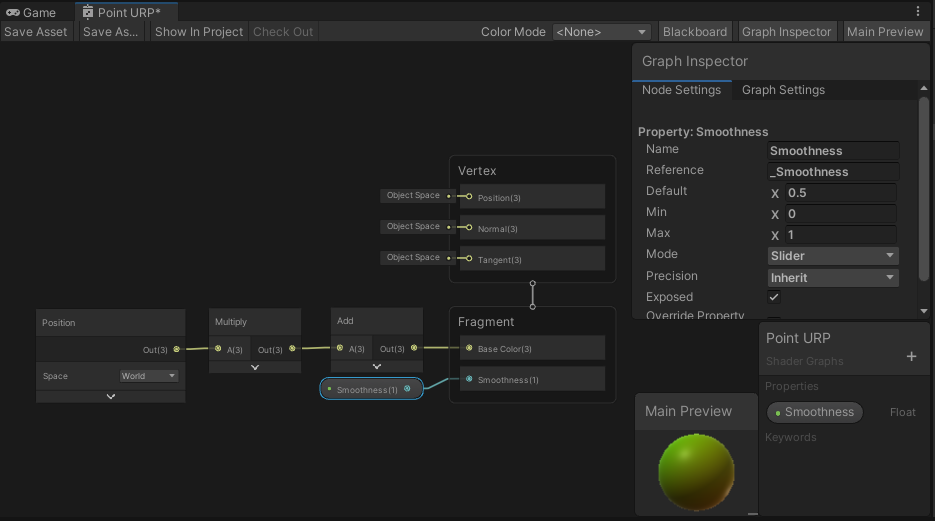
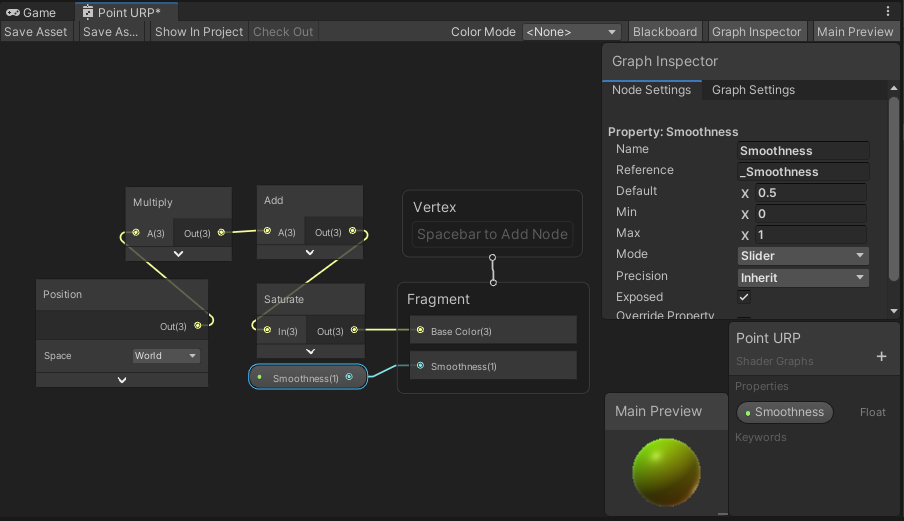
Added ClC Unity Basics graph script and shader

diff --git a/tutorials/catlike/basics/Graph.cs b/tutorials/catlike/basics/Graph.cs
@@ -1,0 +1,63 @@
+// From Catlike Coding Unity Basics 2: Building a Graph
+//      https://catlikecoding.com/unity/tutorials/basics/building-a-graph/
+
+using UnityEngine;
+
+public class Graph : MonoBehaviour
+{
+    [SerializeField]
+    Transform pointPrefab;
+
+    // Range attribute makes the Unity inspector enforce a range to a configurable value.
+    // Unity will make a slider for all ranged fields.
+    [SerializeField, Range(10, 100)]
+    int resolution = 10;
+
+    [SerializeField, Range(0.01f, 0.2f)]
+    float pointScale = 0.04f;
+
+    Transform[] points;
+
+    void Awake()
+    {
+        float domain = 2f;
+        float step = domain / resolution;
+
+        Vector3 position = Vector3.zero;
+        Vector3 scale = Vector3.one * pointScale;
+
+        points = new Transform[resolution];
+
+        // ++i evaluates immediately, whereas i++ evaluates last in the expression.
+        for (int i = 0; i < points.Length; i++)
+        {
+            // Instantiate clones a Unity object
+            // If given a prefab, it will instantiate an instance of it into the current scene
+            Transform point = points[i] = Instantiate(pointPrefab);
+
+            position.x = (i + 0.5f) * step - (domain / 2f); // populate the domain with points, centered at x=0
+            point.localPosition = position;
+            point.localScale = scale;
+
+            // Set point transform's parent to the graph's transform.
+            // worldPositionStays = false : Don't retain the child's world pos/rot/scale.
+            //                              Relocate it relative to new parent.
+            point.SetParent(transform, false);
+        }
+    }
+
+    void Update()
+    {
+        float time = Time.time;
+        for (int i = 0; i < points.Length; i++)
+        {
+            Transform point = points[i];
+
+            // Since localPosition is a property, we can't update it directly
+            // Need to get, modify, then set the value
+            Vector3 position = point.localPosition;
+            position.y = Mathf.Sin(Mathf.PI * (position.x + time));
+            point.localPosition = position;
+        }
+    }
+}

diff --git a/unity/csharp.md b/unity/csharp.md
@@ -1,4 +1,4 @@
-# C# notes
+# Csharp notes
 
 Personal notes on C#, especially w/r/t scripting for Unity.
 
@@ -16,7 +16,7 @@ Personal notes on C#, especially w/r/t scripting for Unity.
 
 ### Classes vs structs
 
-Csharp has both `classes` (objects/reference type) and `structs` (value type). Value types are allocated on the stack and thus deallocated when the stack unwinds, whereas reference types are allocated on the heap and garbage collected (more expensive). 
+Csharp has both `classes` (objects/reference type) and `structs` (value type). Value types are allocated on the stack and thus deallocated when the stack unwinds, whereas reference types are allocated on the heap and garbage collected (more expensive).
 
 However the [.NET docs](https://docs.microsoft.com/en-us/dotnet/standard/design-guidelines/choosing-between-class-and-struct) recommend using class types in the vast majority of situations, except when instances of the type are small, short-lived and/or commonly embedded in other objects. Ex. `UnityEngine.Quaternion` is a struct.
 
@@ -26,27 +26,63 @@ Value types can be converted or cast into objects and back through `boxing`/`unb
 
 ### Type declaration
 
- Use var keyboard when the type is explicitly mentioned in the declaration, ex.:
- ```csharp
+Use var keyboard when the type is explicitly mentioned in the declaration, ex.:
+
+```csharp
 var time = DateTime.Now;
- ```
+```
 
 ### Floats
 
 Game engines (incl. Unity) typically use single-precision floating-point values, ie. `float` rather than `double`.
 
-## Data access
+## Arrays
+
+Arrays are objects, thus they must be instantiated (with a determined length) and are passed-by-reference.
+
+```csharp
+Transform[] assets;
+void Awake() { assets = new Transform[10]; }
+```
+
+## Assignment
+
+On top of performing the assignment, an assignment expression actually returns what was assigned. Thus assignments can be used in larger expressions, ex. assignment chaining:
+
+```csharp
+Transform asset = assets[i] = Instantiate(prefab);
+asset.localPosition = position;
+// asset[i] contains the same ref; also updates
+```
+
+### Setting properties
 
 An object's fields should only be modified by other code via `properties`, methods that wrap fields.
 
+Properties can't be directly reevaluated. Ex. the following code won't work:
+
+```csharp
+asset.localPosition.x++;
+```
+
+`localPosition` is a `property`, a collection of methods that get and set copies of the field's actual value. To increment a property, the value must be gotten, incremented, and finally used to set the property:
+
+```csharp
+Vector3 position = asset.localPosition;
+position++;
+asset.localPosition = position;
+```
+
 ## Unity event methods
 
-`Awake`: Invoked when the component is loaded in play mode, once during the script instance's lifetime.
+`Awake`: Invoked when the component is loaded in play mode, once during the script instance's lifetime. Instantiate initial scene objects here.
 `Update`: Invoked every frame in play mode, before the scene is rendered from the POV of the main camera.
 
 ## Loops
 
 Variables declared within a loop only get defined once, and are automatically reassigned thereafter. Thus it is memory-safe to declare loop-scoped vars.
+
+**Incrementing**: `++i` increments first in the expression, `i++` increments last.
 
 ## Debugging
 

diff --git a/unity/shader-graph.md b/unity/shader-graph.md
@@ -13,7 +13,7 @@ Personal notes on writing shaders using Unity's Shader Graph package.
 For use with Unity's `Universal Render Pipeline`.
 
 1. Import the `Universal RP` package
-2.  Create the `Rendering > Universal Render Pipeline > Pipeline Asset (Forward Renderer)` assets
+2. Create the `Rendering > Universal Render Pipeline > Pipeline Asset (Forward Renderer)` assets
 3. Set `Edit > Project Settings > Graphics > Scriptable Render Pipeline Settings` to the URP asset
 4. Create a shader graph: `Assets > Create > Shader > Universal Render Pipeline > Lit Shader Graph`. Double-click the asset to open its editor.
 5. **Save edits to the shader graph by clicking `Save Asset`!!!!**
@@ -23,13 +23,13 @@ Aside from shader graph, it's also possible to write shaders for the URP, but th
 ## Shader Graph Editor
 
 The editor contains:
+
 - linked nodes representing shader inputs, operations, and outputs,
 - a blackboard for creating properties,
 - a graph & node inspector, and
 - a material preview.
 
 ![](img/basic-shader-graph.PNG "Simple positional shader graph from Catlike Coding Unity Basics: Building a Graph")
-
 
 ### Nodes
 
@@ -41,5 +41,4 @@ Compact nodes by clicking the arrows on the bottom (minimize node preview) and t
 
 Create properties in the `blackboard`, configure them in the `inspector`, drag-and-drop them into the graph as `nodes`, and link them to the shader.
 
-To match `.shader` lang conventions, a `Property`'s reference should be set to `_Property`. The property can then be accessed by this reference internally. // TODO what can we do with it? 
-
+To match `.shader` lang conventions, a `Property`'s reference should be set to `_Property`. The property can then be accessed by this reference internally. // TODO what can we do with it?

diff --git a/tutorials/catlike/basics/catlike-basics.md b/tutorials/catlike/basics/catlike-basics.md
@@ -23,15 +23,36 @@ To view the scene on a notebook-like 2D grid, remove scene effects (ex. skybox) 
 The GPU renders 3D objects by running their shader programs. By writing shaders, we can create materials that use custom math/logic to decide how a point should be visualized.
 
 Shaders are efficient to update. A single material can be assigned to many assets, yet by using the asset properties (ex. location) each asset can be semi-uniquely visualized. When a change in material is needed (ex. restyling a game), we can skip recreating and re-importing every asset's materials, and instead modify a few shaders. Shaders enable:
+
 - Nice materials for small teams who lack the resources to paint textures for each asset,
 - Prototyping visual styles (even if the final product contains painted textures),
 - Resolution-agnostic materials
 
 Thus, pretty much anything that can be done with a texture or texture-like map is a fair target for shader creation.
 
+### Useful properties
+
 Within a shader we can use any of the following properties to determine the rendering of a vertex:
-- `position`, world or local. A 3-dimensional vector.
+
 - `albedo`, the spectrum of light diffusely reflected by a surface. A 3-dimensional vector.
+- `position`, world or local. A 3-dimensional vector.
+- `time`.
+
+### Useful math
+
+#### Sinusoidal functions
+
+Bound within a fixed range.
+
+Position along the y axis (ie. distance from the x axis) as you walk around a circle.
+
+#### Saturation
+
+Clamp all components to [0,1].
+
+Common shader operation, available in all shader langs. Use to ensure that:
+
+- color components stay in range
 
 ### Surface shaders
 

diff --git a/README.md b/README.md
@@ -2,6 +2,10 @@
 
 This is a repository for Yuriy Pavlov's technical art projects, including shaders, VFX scripts, and useful visualization tools.
 
+## Notes
+
+Notes are scattered across the subdirectories according to topic. May be reorganized using Obsidian in the future.
+
 ## Tutorial files
 
 Shaders and scripts in `tutorial` subdirectories were made from completing [Catlike Coding's Rendering tutorials](https://catlikecoding.com/unity/tutorials/rendering/).

diff --git a/templates/vscode/vscode.md b/templates/vscode/vscode.md
@@ -1,0 +1,7 @@
+# Templates for VSCode
+
+Instead of using the `settings.json` file provided, try syncing settings by logging in to VSCode via github.
+
+## Csharp
+
+To format Csharp files, install the CSharpier extension (`csharpier.csharpier-vscode`) in VSCode. Theoretically the generic Csharp extension should be able to do it but I've had issues getting it to format properly.
